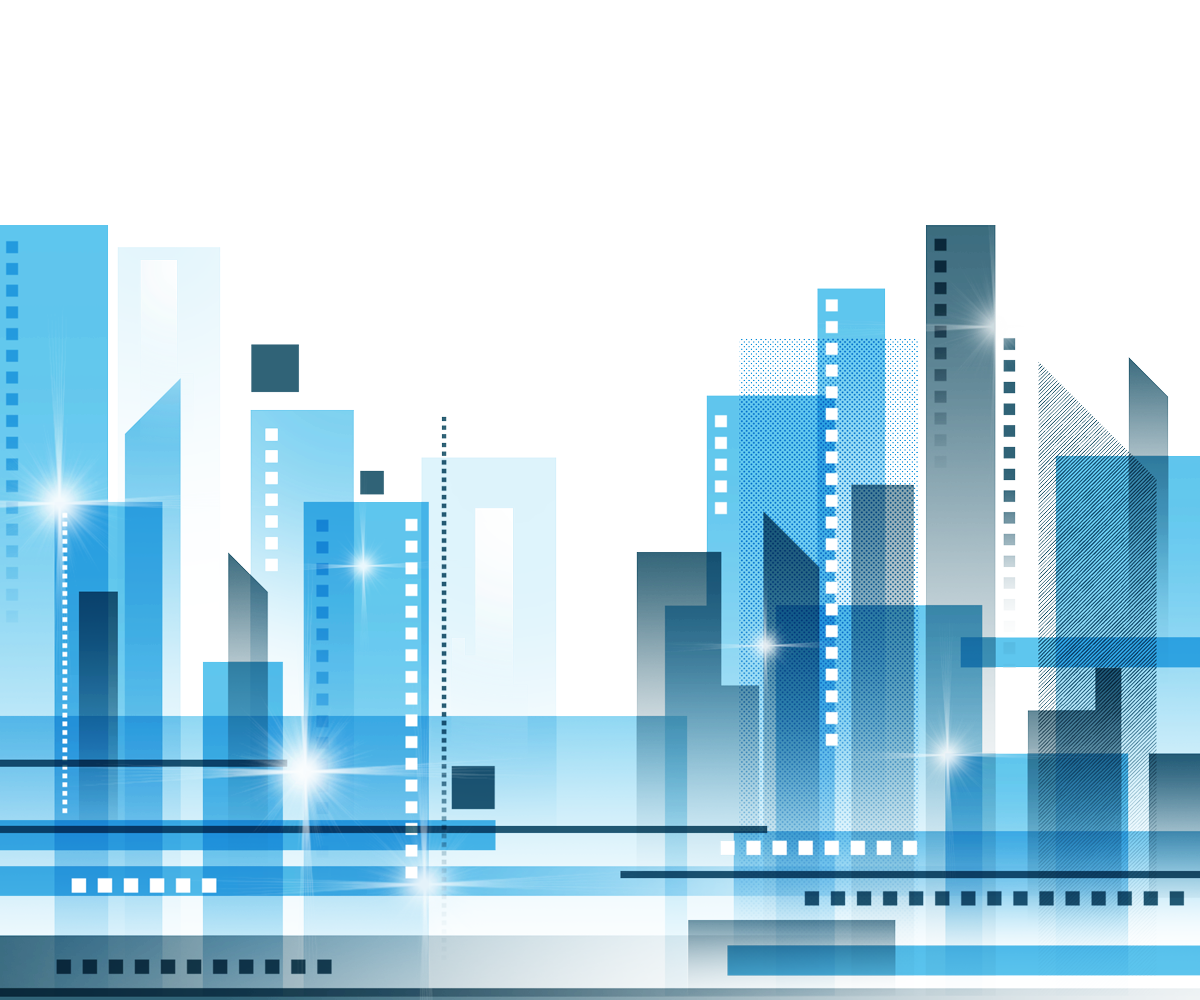
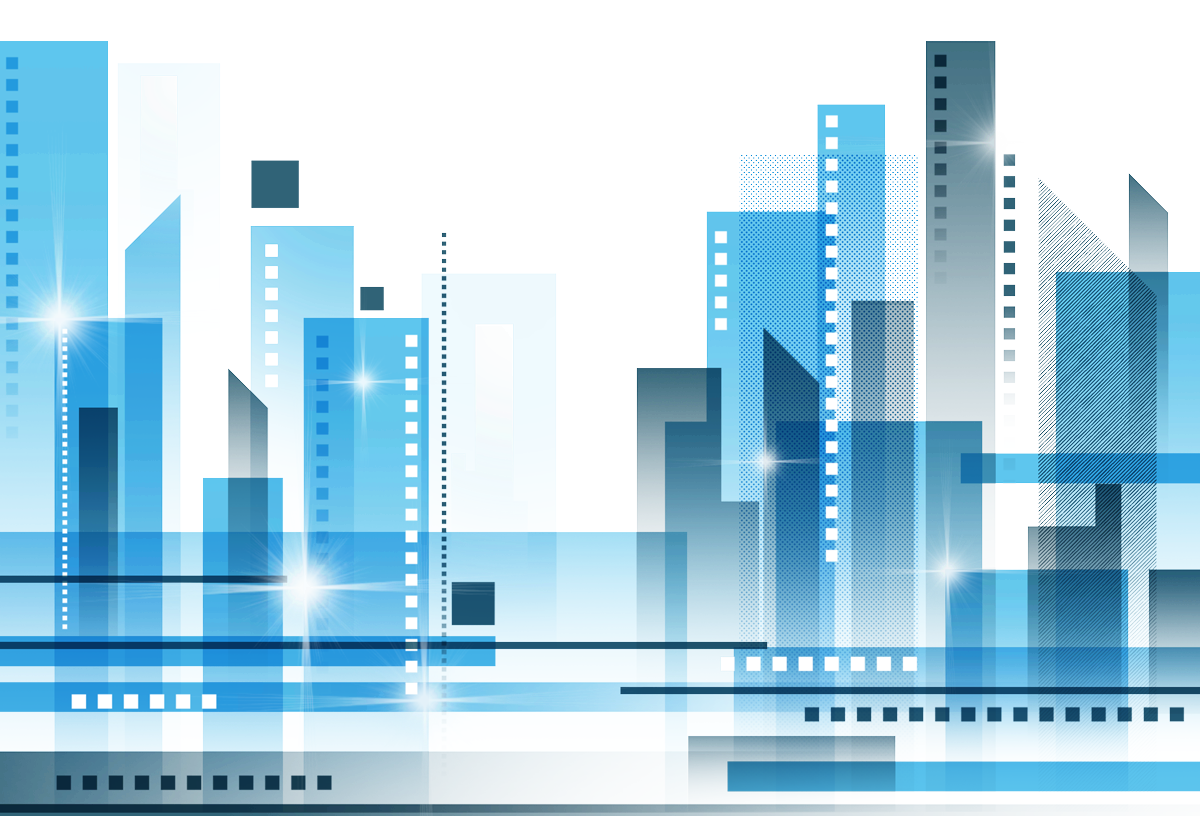
Almost Finished

diff --git a/index.html b/index.html
@@ -6,15 +6,78 @@
     <title>Sadeepa Dilhara</title>
     <link rel="stylesheet" href="css/styles.css">
     <link rel="icon" href="favicon.ico">
+    <link rel="preconnect" href="https://fonts.googleapis.com">
+    <link rel="preconnect" href="https://fonts.gstatic.com" crossorigin>
+    <link rel="preconnect" href="https://fonts.googleapis.com">
+    <link rel="preconnect" href="https://fonts.gstatic.com" crossorigin>
+    <link
+        href="https://fonts.googleapis.com/css2?family=Merriweather:ital,wght@0,300;0,400;0,700;0,900;1,300;1,400;1,700;1,900&family=Montserrat:ital,wght@0,100..900;1,100..900&family=Sacramento&display=swap"
+        rel="stylesheet">
 
 </head>
 
 <body>
-    <div>
+    <div class="container">
         <h1>I'm Sadeepa</h1>
-        <p>a programmer</p>
-        <image class="city" src="images/city.png" >
+        <h2 class="short_description">a programmer</h2>
+        <image class="city" src="images/city.png">
     </div>
+
+
+    <div class="middle-container">
+        <div class="profile">
+            <img src="images/DP.png" alt="Sadeepa's Profile Picture" Width="300">
+            <h2 style="margin-bottom: 0px;">Hello.</h2>
+            <p>I am an Software Developer <br>CSE Undergraduate - University of Moratuwa
+            </p>
+        </div>
+        <hr>
+        <div class="skills">
+            <h2>My Skills.</h2>
+            <div style="text-align: center;">
+                <img src="images/skill.png" alt="Skills Picture" width="200">
+            </div>
+            <div class="skill-row">
+                <p>
+                    Software Designing<br>
+                    Multi-threading<br>
+                    Digital Circuit Design<br>
+                    Video Production<br>
+                    Automotive Journalism<br>
+                    LLM<br>
+                    Data Structures<br>
+                    Algorithm Development<br>
+                    Flutter<br>
+                    C++<br>
+                    Java<br>
+                    Python<br>
+                    Problem Solving
+                </p>
+
+            </div>
+
+        </div>
+        <hr>
+        <div class="contact-me">
+            <h2>Get In Touch</h2>
+            <p class="contact-message">If you want to do your project in professional hands</p>
+            <a class="btn" href="mailto:sadeepadilharap@gmail.com">CONTACT ME</a>
+        </div>
+    </div>
+
+
+    <div class="bottom-container">
+        <a class="footer-link"
+            href="https://www.linkedin.com/in/sadeepadilharap?utm_source=share&utm_campaign=share_via&utm_content=profile&utm_medium=android_app">LinkedIn</a>
+        <a class="footer-link" href="https://github.com/sadeepadilharap">GitHub</a>
+        <a class="footer-link" href="https://www.instagram.com/sadeepadilharap?igsh=bDFqZXVxcTR0MzR2">Instagram</a>
+        <a class="footer-link" href="https://www.facebook.com/share/EX3ybwPu61nVZikX/?mibextid=qi2Omg">Facebook</a>
+        <a class="footer-link" href="https://x.com/sadeepadilharap?t=yaG89DyJ1M4XBLNDMTMQIw&s=09">X</a>
+        <a class="footer-link" href="https://www.threads.net/@sadeepadilharap">Threads</a>
+
+        <p class="copyright">© 2024 Sadeepa Dilhara</p>
+    </div>
+
 
 </body>
 

diff --git a/css/styles.css b/css/styles.css
@@ -2,25 +2,122 @@
 body {
     background-color: white;
     margin: 0;
+    text-align: center;
+    font-family: "Merriweather", serif;
+    color: #40514E;
 }
 
 h1 {
-    margin-top: 0;
+    color: #3F72AF;
+    font-family: "Sacramento", cursive;
+    font-size: 5.625rem;
+    /**90/16 = 562.5% 0r 5.625em **/
+    margin: 50px auto 0 auto;
 }
 
-div {
-    background-color: #DBE2EF;
+h2 {
+    font-family: "Montserrat", sans-serif;
+    font-size: 2.5rem;
+    color: #3F72AF;
+    font-weight: normal;
+
+
 }
 
+h3 {
+    font-family: "Montserrat", sans-serif;
+    color: #3F72AF;
+}
+
+p {
+    line-height: 2;
+}
+
+hr {
+    border: dotted 6px #DBE2EF;
+    margin: 100px auto 100px auto;
+    border-bottom: none;
+    width: 4%;
+}
+
+a {
+    color: #DBE2EF;
+    text-decoration: none;
+    font-family: "Montserrat", sans-serif;
+    margin: 10px 20px;
+
+}
+
+a:hover {
+    color: #ffffff;
+}
 
 
 
 /**********************Class Selectors**********************/
+.container {
+    position: relative;
+    background-color: #DBE2EF;
+    padding-top: 5%;
+    margin-bottom: 20px;
 
-.city {
-    margin: 20px;
-    width: 50% ;
 }
 
+.city {
+    position: relative;
+    width: 50%;
+}
+
+.short_description {
+    font-size: 25px;
+}
+
+.skill-row {
+    width: 50%;
+    margin-top: 30px;
+    margin-left: auto;
+    margin-right: auto;
+    text-align: center;
+}
+
+.profile {
+    line-height: 2;
+}
+
+.middle-container {
+    margin: 100px auto 100px auto;
+}
+
+.contact-message {
+    margin: 50px auto 50px;
+}
+
+.btn {
+    -webkit-border-radius: 8;
+    -moz-border-radius: 8;
+    border-radius: 8px;
+    font-family: "Montserrat", sans-serif;
+    color: #ffffff;
+    font-size: 20px;
+    background: #3F72AF;
+    padding: 10px 20px 10px 20px;
+    text-decoration: none;
+}
+
+.btn:hover {
+    background: #DBE2EF;
+    text-decoration: none;
+}
+
+.bottom-container {
+    background-color: #3F72AF;
+    padding: 50px 0 20px;
+}
+
+.copyright {
+    color: #EAF6F6;
+    font-size: 0.75rem;
+    padding-top: 20px;
+}
 
 /**********************ID Selectors**********************/
